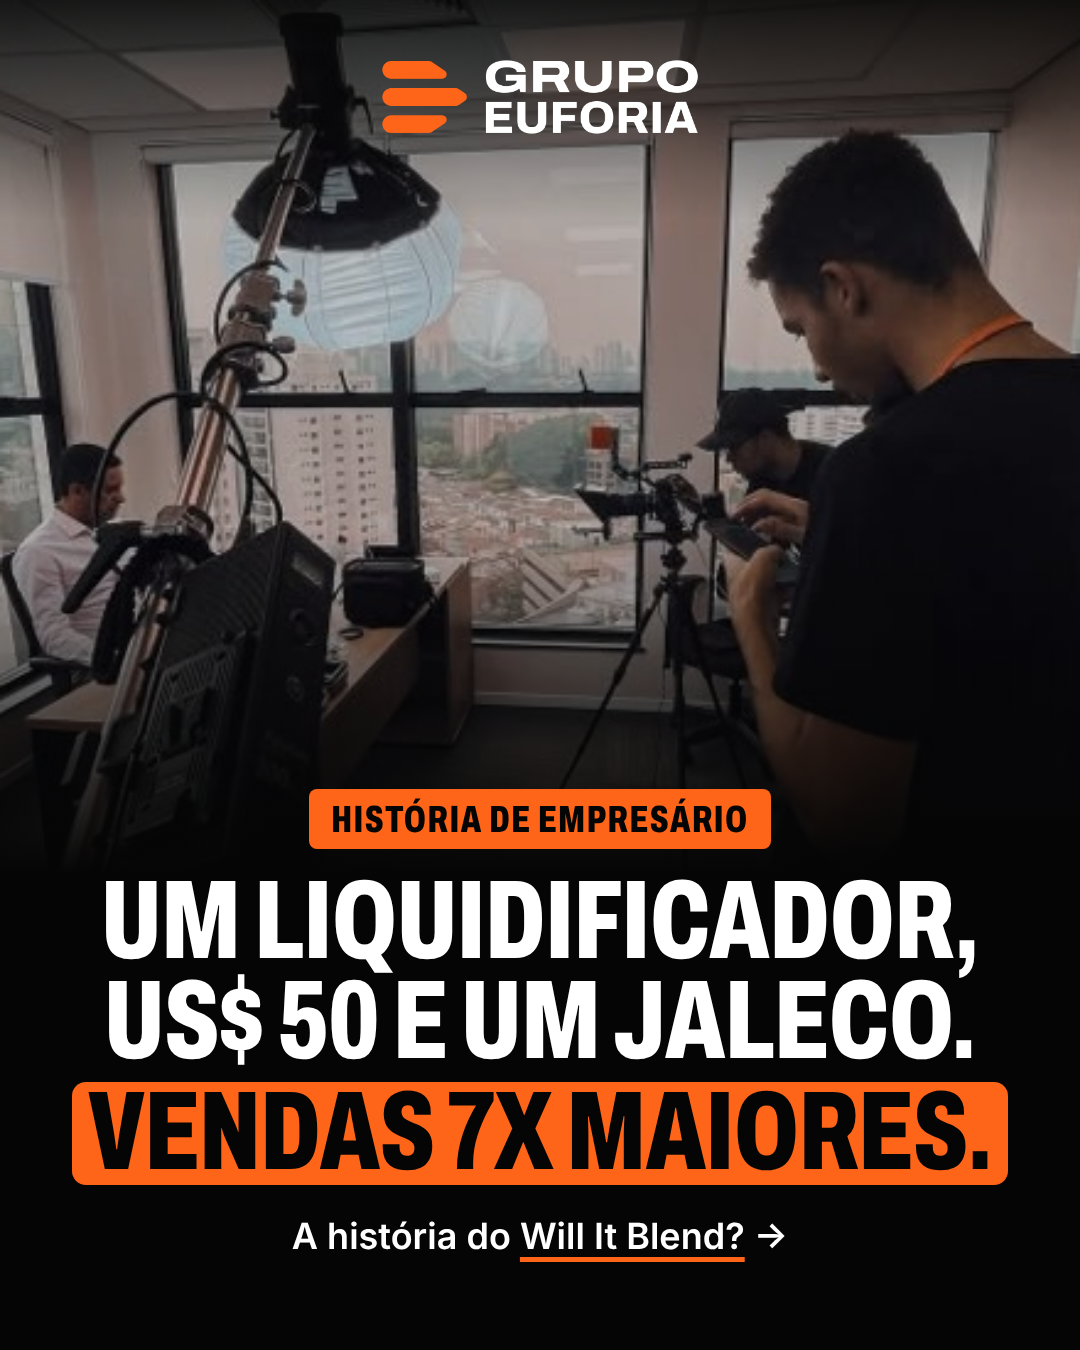
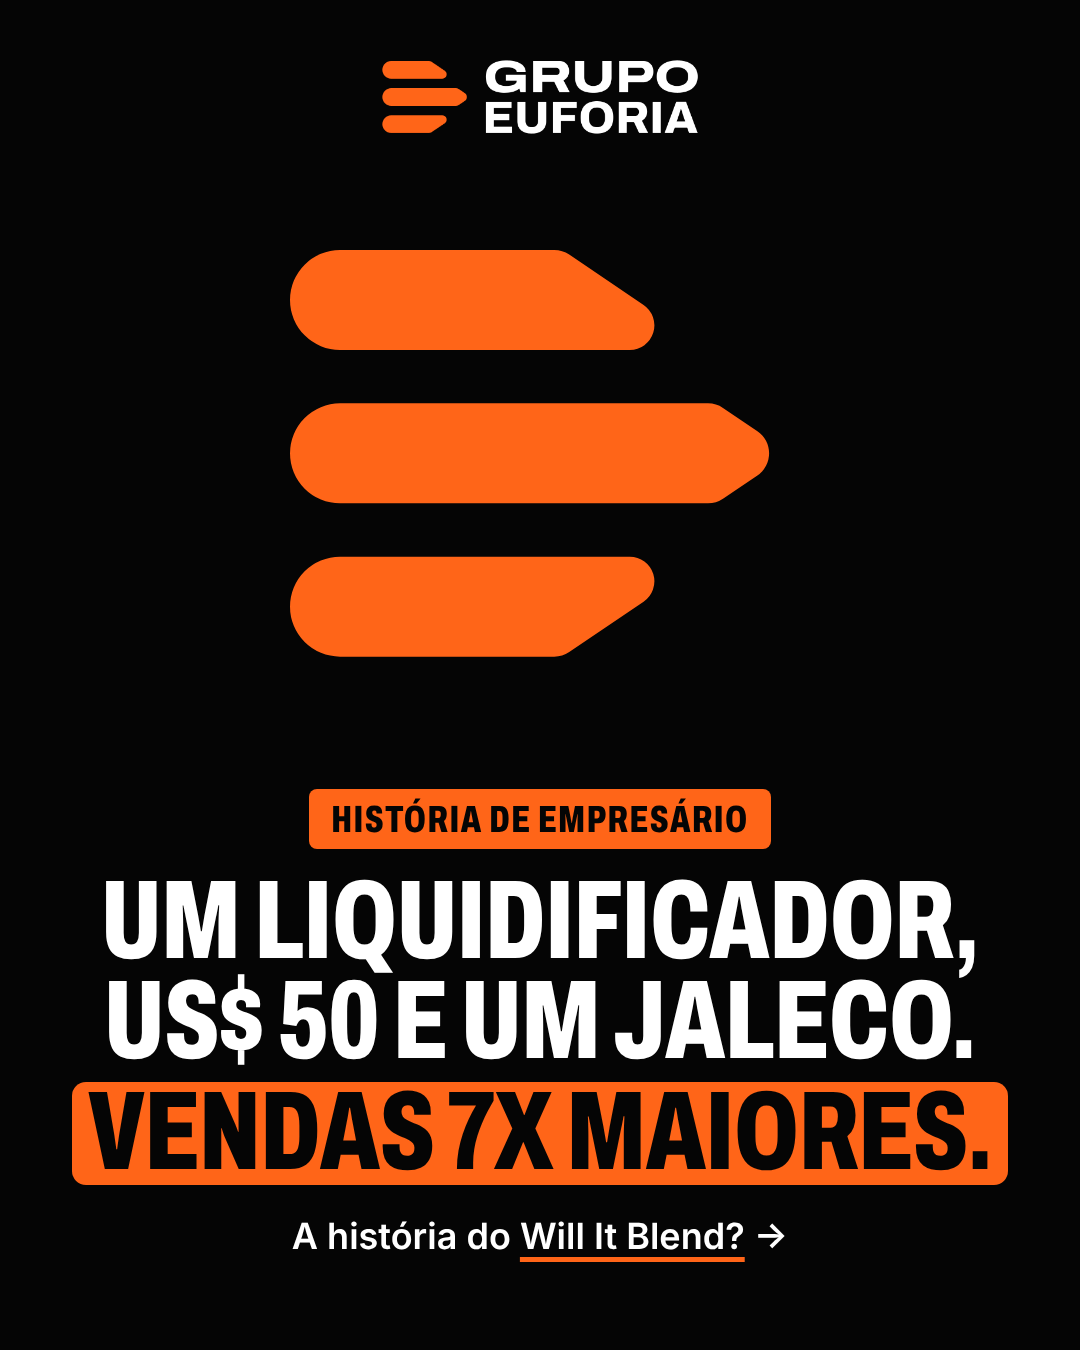
Capas tipográficas com o símbolo Play (sem foto da equipe) e semana 02-08/11 refeita
Claude-Session: https://claude.ai/code/session_01JMZwtBW6EN5Vx7yqX2uEJc

diff --git a/gerador/container/render_local.py b/gerador/container/render_local.py
@@ -227,6 +227,10 @@ b{font-weight:800}
 .icone{width:58px !important;top:66px !important}
 .capa .logo{width:320px !important}
 .cta .logo{width:360px !important}
+.capa.tipo{background:#050505}
+.capa.tipo .simbolo-g{position:absolute;width:500px;left:50%;transform:translateX(-50%);top:250px}
+.capa.tipo .simbolo-g.contorno{width:640px;top:200px}
+.capa.tipo .base{display:none}
 """
 
 def rich(t):
@@ -316,7 +320,12 @@ def slide(s, i, n, cat=""):
     if tipo == "capa":
         linhas = "".join(
             f'<span class="{"d" if dest else ""}">{rich(txt)}</span><br>' for txt, dest in s["titulo_linhas"])
-        if s.get("fundo"):
+        if s.get("estilo") in ("simbolo", "contorno"):
+            d = re.search(r'd="([^"]+)"', ICON).group(1)
+            pinta = 'fill="none" stroke="#FF6518" stroke-width="1.1"' if s["estilo"] == "contorno" else 'fill="#FF6518"'
+            topo = f'<svg class="simbolo-g {s["estilo"]}" viewBox="0 0 150 122"><path {pinta} d="{d}"/></svg>'
+            cls = "s capa tipo"
+        elif s.get("fundo"):
             topo = f'<div class="fundo" style="background-image:url({img_uri(ROOT / s["fundo"])});background-position:{s.get("posicao","center")}"></div>'
             cls = "s capa comfundo"
         else:

diff --git a/gerador/render2.py b/gerador/render2.py
@@ -230,6 +230,10 @@ b{font-weight:800}
 .icone{width:58px !important;top:66px !important}
 .capa .logo{width:320px !important}
 .cta .logo{width:360px !important}
+.capa.tipo{background:#050505}
+.capa.tipo .simbolo-g{position:absolute;width:500px;left:50%;transform:translateX(-50%);top:250px}
+.capa.tipo .simbolo-g.contorno{width:640px;top:200px}
+.capa.tipo .base{display:none}
 """
 
 def rich(t):
@@ -319,7 +323,12 @@ def slide(s, i, n, cat=""):
     if tipo == "capa":
         linhas = "".join(
             f'<span class="{"d" if dest else ""}">{rich(txt)}</span><br>' for txt, dest in s["titulo_linhas"])
-        if s.get("fundo"):
+        if s.get("estilo") in ("simbolo", "contorno"):
+            d = re.search(r'd="([^"]+)"', ICON).group(1)
+            pinta = 'fill="none" stroke="#FF6518" stroke-width="1.1"' if s["estilo"] == "contorno" else 'fill="#FF6518"'
+            topo = f'<svg class="simbolo-g {s["estilo"]}" viewBox="0 0 150 122"><path {pinta} d="{d}"/></svg>'
+            cls = "s capa tipo"
+        elif s.get("fundo"):
             topo = f'<div class="fundo" style="background-image:url({img_uri(ROOT / s["fundo"])});background-position:{s.get("posicao","center")}"></div>'
             cls = "s capa comfundo"
         else:
